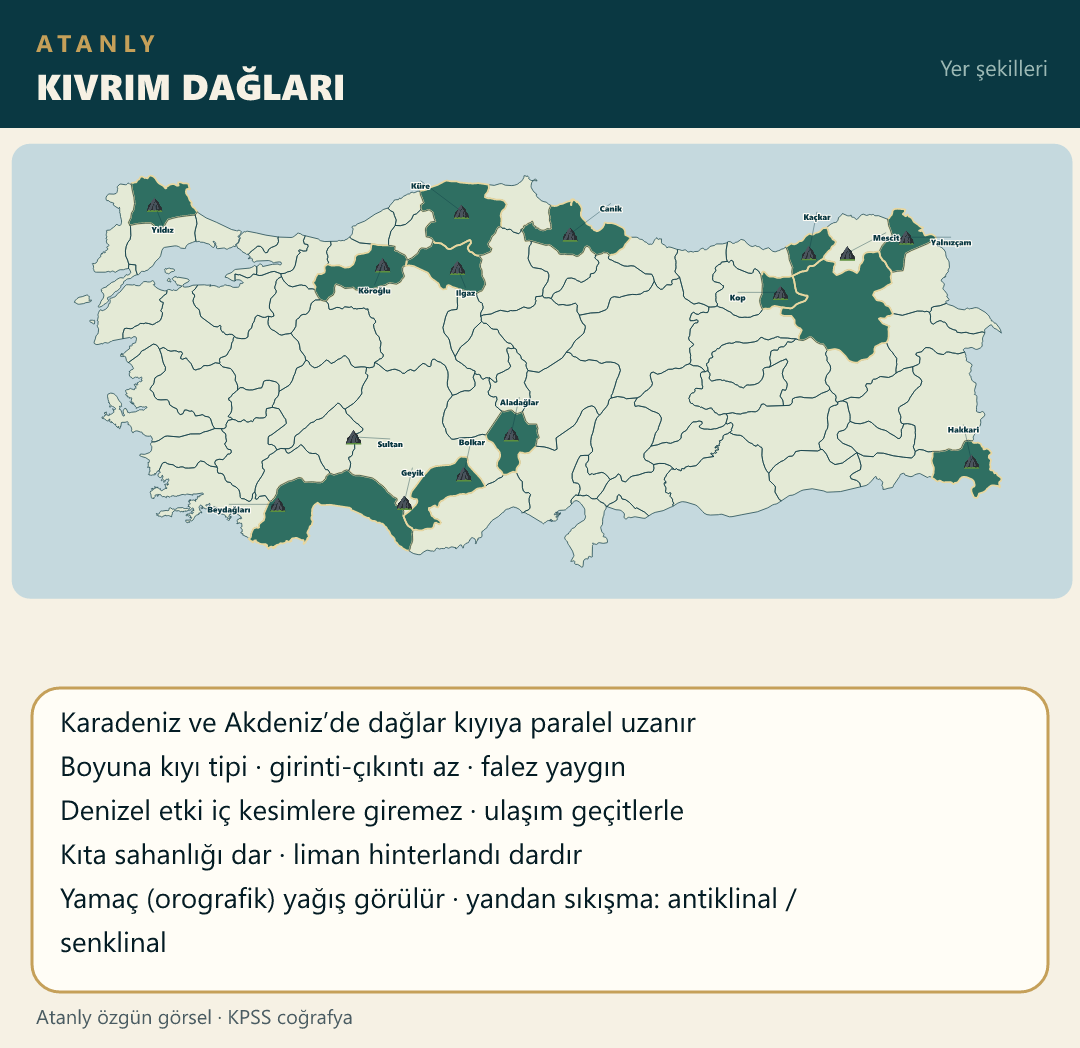
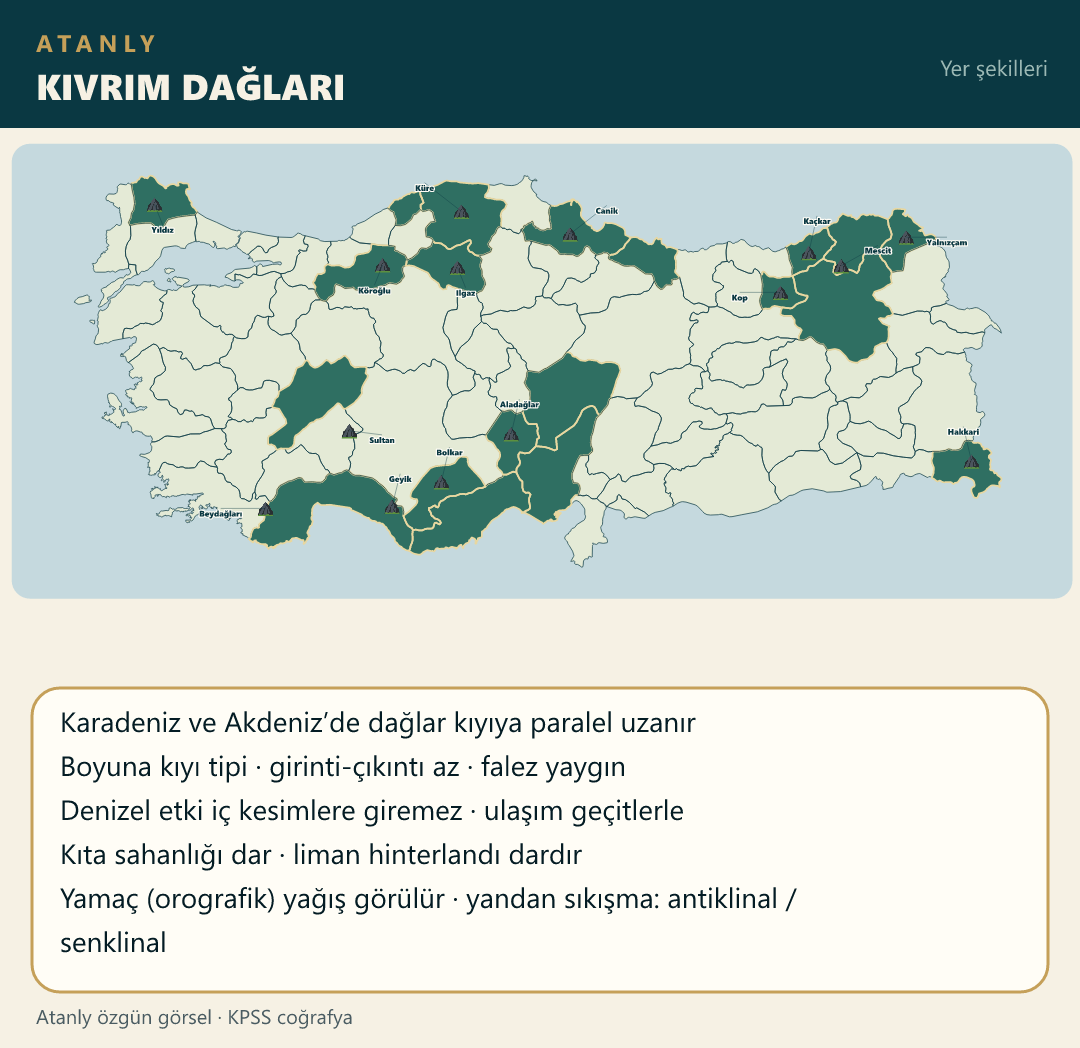
Pin each fold range on its provinces and paint those provinces only.

diff --git a/scripts/build-atanly-maps.js b/scripts/build-atanly-maps.js
@@ -202,6 +202,14 @@ function districtXY(fp) {
     return { x: fp.vx != null ? fp.vx : fp.cx, y: fp.vy != null ? fp.vy : fp.cy };
 }
 
+function clampInProv(fp, x, y, pad) {
+    pad = pad == null ? 14 : pad;
+    return {
+        x: Math.max(fp.minX + pad, Math.min(fp.maxX - pad, x)),
+        y: Math.max(fp.minY + pad, Math.min(fp.maxY - pad, y))
+    };
+}
+
 function findProv(provs, name) {
     var k = keyOf(name);
     for (var i = 0; i < provs.length; i++) {
@@ -797,7 +805,7 @@ function main() {
                 return;
             }
             var pos = districtXY(fp);
-            pos = { x: pos.x + (it.pdx || 0), y: pos.y + (it.pdy || 0) };
+            pos = clampInProv(fp, pos.x + (it.pdx || 0), pos.y + (it.pdy || 0));
             var p = { x: pos.x, y: pos.y, ox: pos.x, oy: pos.y, text: mapCaption(it.label) };
             if (usePins) {
                 p.pinX = pos.x;
@@ -815,6 +823,7 @@ function main() {
         items.forEach(function (it) {
             if (it.hi === false) return;
             hi.push(it.il);
+            (it.boya || []).forEach(function (b) { hi.push(b); });
         });
         var extra = landPaths(provs, hi, C.landHi) + overlay + labels;
         var factsY = 78 + MAP_BLOCK_H + 16;
@@ -828,20 +837,20 @@ function main() {
     labeled({ file: "kıvrım_dağlar.png", head: "KIVRIM DAĞLARI", iconSize: 15 }, "Yer şekilleri",
         [
             { il: "Kırklareli", label: "Yıldız", ldx: 8, ldy: 28 },
+            { il: "Kastamonu", label: "Küre", ldx: -36, ldy: -20, boya: ["Bartın"] },
+            { il: "Çankırı", label: "Ilgaz", ldx: 8, ldy: 28, boya: ["Kastamonu"] },
             { il: "Bolu", label: "Köroğlu", ldx: -8, ldy: 28 },
-            { il: "Kastamonu", label: "Küre", ldx: -40, ldy: -22 },
-            { il: "Çankırı", label: "Ilgaz", ldx: 8, ldy: 28 },
-            { il: "Samsun", label: "Canik", ldx: 40, ldy: -22 },
-            { il: "Rize", label: "Kaçkar", ldx: 8, ldy: -32 },
-            { il: "Bayburt", label: "Kop", ldx: -42, ldy: 8 },
-            { il: "Erzurum", label: "Mescit", ldx: 38, ldy: -12, pdx: 6, pdy: -58 },
-            { il: "Ardahan", label: "Yalnızçam", ldx: 44, ldy: 8 },
-            { il: "Antalya", label: "Beydağları", ldx: -48, ldy: 8, pdx: -16, pdy: -12 },
-            { il: "Afyon", label: "Sultan", ldx: 36, ldy: 10, pdx: 40, pdy: 42, hi: false },
-            { il: "Antalya", label: "Geyik", ldx: 8, ldy: -26, pdx: 108, pdy: -14 },
-            { il: "Karaman", label: "Bolkar", ldx: 8, ldy: -28, pdx: 22, pdy: -8 },
-            { il: "Niğde", label: "Aladağlar", ldx: 8, ldy: -28 },
-            { il: "Hakkari", label: "Hakkari", ldx: -8, ldy: -28 }
+            { il: "Samsun", label: "Canik", ldx: 36, ldy: -20, boya: ["Ordu"] },
+            { il: "Rize", label: "Kaçkar", ldx: 8, ldy: -28, boya: ["Artvin"] },
+            { il: "Erzurum", label: "Mescit", ldx: 36, ldy: -12, pdy: -48 },
+            { il: "Ardahan", label: "Yalnızçam", ldx: 40, ldy: 8, boya: ["Artvin"] },
+            { il: "Bayburt", label: "Kop", ldx: -40, ldy: 8, boya: ["Erzurum"] },
+            { il: "Antalya", label: "Beydağları", ldx: -44, ldy: 8, pdx: -28, pdy: -8 },
+            { il: "Afyon", label: "Sultan", ldx: 32, ldy: 12, pdx: 36, pdy: 36 },
+            { il: "Antalya", label: "Geyik", ldx: 8, ldy: -24, pdx: 96, pdy: -10, boya: ["Karaman"] },
+            { il: "Karaman", label: "Bolkar", ldx: 8, ldy: -26, boya: ["Mersin", "Niğde"] },
+            { il: "Niğde", label: "Aladağlar", ldx: 8, ldy: -26, boya: ["Kayseri", "Adana"] },
+            { il: "Hakkari", label: "Hakkari", ldx: -8, ldy: -26 }
         ],
         [
             "Karadeniz ve Akdeniz’de dağlar kıyıya paralel uzanır",

diff --git a/notlar/cografya-2-not.js b/notlar/cografya-2-not.js
@@ -64,7 +64,7 @@ window.cografya_2_notlari = [
             </ul>
             <!-- 🗺 HARİTA / RESİM ALANI -->
             <div class="mt-4 overflow-hidden rounded-xl border border-blue-200 dark:border-blue-700/50 bg-white dark:bg-slate-800 p-2">
-                <img src="./src/img/kıvrım_dağlar.png?v=13" alt="Kıvrım Dağları Haritası" class="w-full h-auto rounded-lg object-contain" loading="lazy">
+                <img src="./src/img/kıvrım_dağlar.png?v=14" alt="Kıvrım Dağları Haritası" class="w-full h-auto rounded-lg object-contain" loading="lazy">
             </div>
             <div class="mt-3 bg-amber-50 dark:bg-amber-900/20 p-3 rounded-lg text-amber-700 dark:text-amber-400 border border-amber-200 dark:border-amber-800/30 text-xs">
                 📌 <b>Not:</b> Türkiye'nin kıvrım dağları <b class="text-rose-600 dark:text-rose-400">Alp-Himalaya</b> sistemine bağlıdır.

diff --git a/notlar/cografya-3-not.js b/notlar/cografya-3-not.js
@@ -214,7 +214,7 @@ window.cografya_3_notlari = [
         </div>
     <!-- 🗺 HARİTA / RESİM ALANI -->
             <div class="mt-4 overflow-hidden rounded-xl border border-blue-200 dark:border-blue-700/50 bg-white dark:bg-slate-800 p-2">
-                <img src="./src/img/kıvrım_dağlar.png?v=13" alt="Kıvrım Dağları Haritası" class="w-full h-auto rounded-lg object-contain" loading="lazy">
+                <img src="./src/img/kıvrım_dağlar.png?v=14" alt="Kıvrım Dağları Haritası" class="w-full h-auto rounded-lg object-contain" loading="lazy">
             </div>
     </div>
     `,

diff --git a/index.html b/index.html
@@ -100,8 +100,8 @@
     <script src="notlar/tarih-15-not.js?v=3"></script>
     <script src="notlar/tarih-16-not.js?v=1"></script>
     <script src="notlar/cografya-1-not.js?v=9"></script>
-    <script src="notlar/cografya-2-not.js?v=14"></script>
-    <script src="notlar/cografya-3-not.js?v=14"></script>
+    <script src="notlar/cografya-2-not.js?v=15"></script>
+    <script src="notlar/cografya-3-not.js?v=15"></script>
     <script src="notlar/cografya-4-not.js?v=9"></script>
     <script src="notlar/cografya-5-not.js?v=9"></script>
     <script src="notlar/cografya-6-not.js?v=3"></script>
